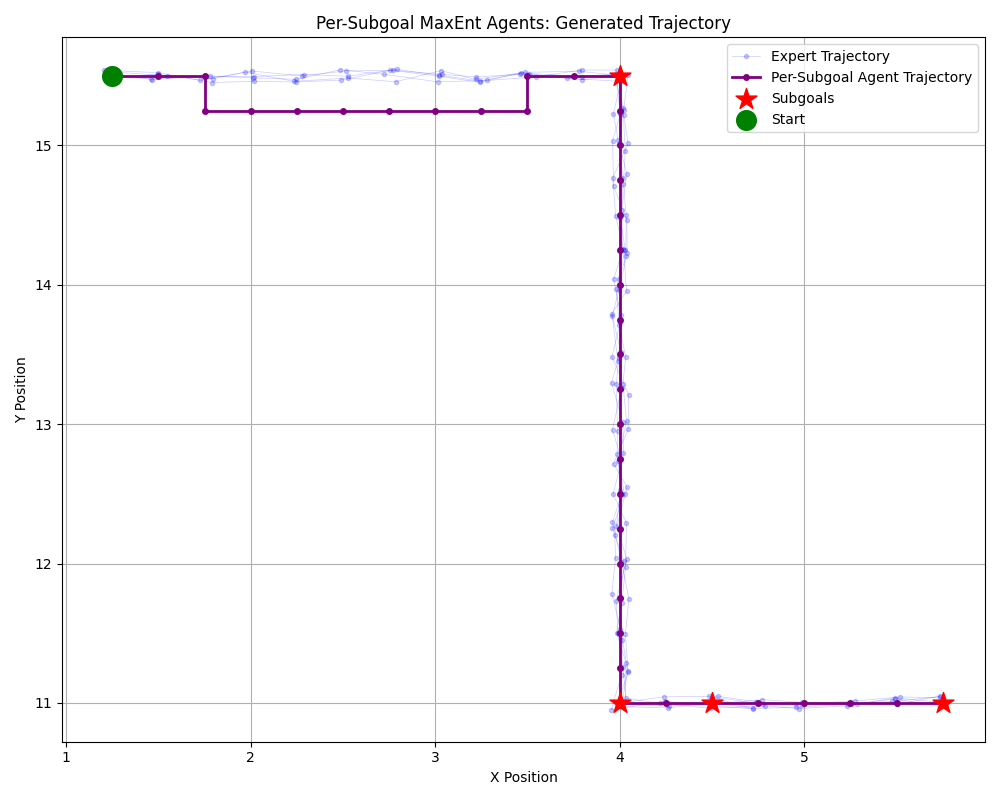
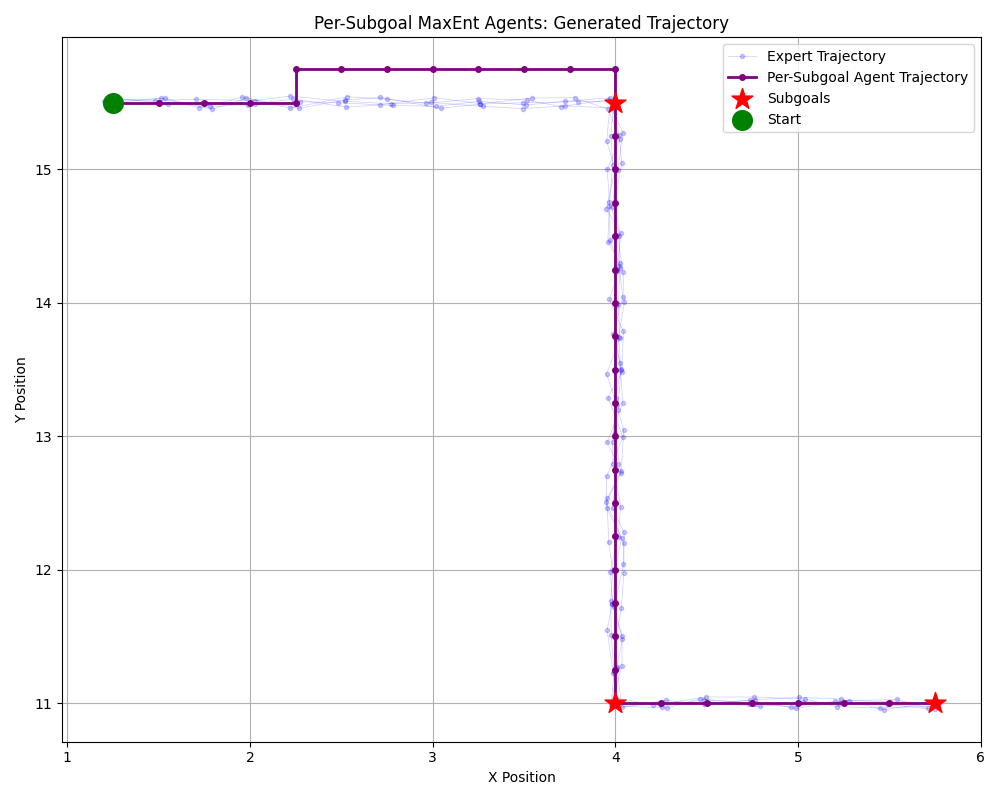
fix(subgoals): bug with sorting/unique (#12)

diff --git a/irl_agents_separate.py b/irl_agents_separate.py
@@ -18,8 +18,9 @@ def segmentTrajectoriesBySubgoal(expertTrajectories, subgoals, tol=0.3):
             current_segment.append(step)
             
             # Check if we reached the current subgoal
+            subgoalLocation = subgoals[current_subgoal_idx]
             if current_subgoal_idx < len(subgoals):
-                if np.allclose(step, subgoals[current_subgoal_idx], atol=tol):
+                if np.allclose(step, subgoalLocation, atol=tol):
                     # Save this segment
                     segments_by_subgoal[current_subgoal_idx].append(current_segment)
                     current_segment = [step]  # Start next segment from this subgoal
@@ -101,6 +102,9 @@ def generatePerSubgoalTrajectory(learned_agents, maxLength=200, epsilon=0.05):
     return full_trajectory
 
 if __name__ == "__main__":
+    # Set random seed for reproducibility
+    np.random.seed(142)
+    
     noise = 0.05
     # Mask the shape so only x,y get noise
     # TODO: to train on the cart, switch the file path below
@@ -108,12 +112,18 @@ if __name__ == "__main__":
     expertTrajectories = load_expert_trajectories("trajectories.pkl", noise=noise, maskShape=[False, False])
 
     segmenter = HIRLSegmenter()
-    subgoals = np.unique(segmenter.subgoals(expertTrajectories), axis=0)
+    subgoals = segmenter.subgoals(expertTrajectories)
+    
+    # Round subgoals and remove duplicates while preserving order
+    subgoals = np.round(subgoals * 4) / 4
+    # Use unique with return_index to preserve order
+    _, unique_indices = np.unique(subgoals, axis=0, return_index=True)
+    subgoals = subgoals[np.sort(unique_indices)]  # Sort indices to preserve temporal order
 
     startState = np.asarray([1.25, 15.5])
 
     finalGoalLocation = np.asarray([5.75, 11])
-    subgoals = np.vstack([np.round(subgoals * 4) / 4, finalGoalLocation])
+    subgoals = np.vstack([subgoals, finalGoalLocation])
     print("Subgoals:", subgoals)
 
     print("\n" + "="*60)
